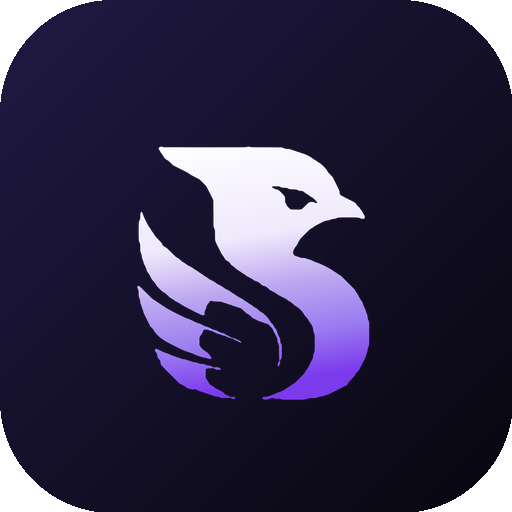
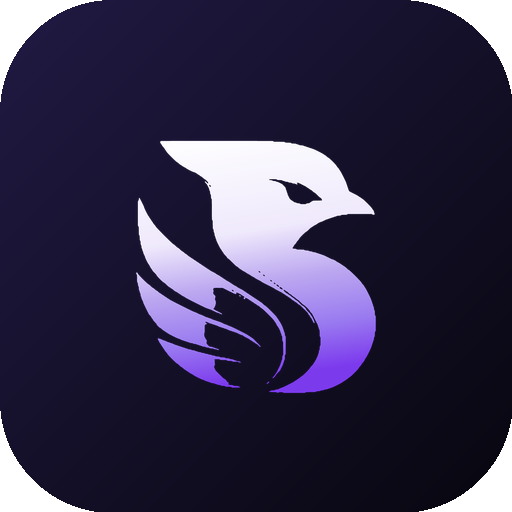
Brand refresh v2: real phoenix art — launcher, adaptive, store, youtube
Replace traced-from-placeholder with the real phoenix (new.png):
- mipmap ic_launcher + ic_launcher_round (real dark squircle) at all densities
- adaptive foreground vector re-traced from the real art
- store-assets app-icon-512 + feature-graphic regenerated (real)
- generate_youtube_banner.py now composites the phoenix (dropped the WiFi mark);
  youtube-banner regenerated

diff --git a/store-assets/generate_youtube_banner.py b/store-assets/generate_youtube_banner.py
@@ -14,11 +14,13 @@ SAFE_W, SAFE_H = 1546, 423
 SAFE_X = (W - SAFE_W) // 2
 SAFE_Y = (H - SAFE_H) // 2
 
+MARK = os.path.join(OUT, "brand-mark-1024.png")  # transparent phoenix
+
 # Brand palette (matches generate_assets.py)
 GRAD_TOP_LEFT     = (15, 14, 35)        # near-black indigo
 GRAD_MID          = (76, 51, 158)       # deep violet
 GRAD_BOT_RIGHT    = (139, 92, 246)      # #8B5CF6
-ACCENT            = (99, 102, 241)      # #6366F1
+ACCENT            = (124, 58, 237)      # #7C3AED
 WHITE             = (255, 255, 255)
 WHITE_A           = (255, 255, 255, 230)
 WHITE_FAINT       = (255, 255, 255, 40)
@@ -55,18 +57,10 @@ def add_glow(img, cx, cy, radius, color, intensity=180):
     return Image.alpha_composite(img, glow)
 
 
-def draw_wifi_mark(draw, cx, cy, scale=1.0):
-    """Concentric WiFi arcs + center dot — matches the app icon."""
-    arcs = [
-        (24 * scale, 5 * scale),
-        (16 * scale, 5 * scale),
-        (8 * scale, 5 * scale),
-    ]
-    for radius, thickness in arcs:
-        bbox = [cx - radius, cy - radius, cx + radius, cy + radius]
-        draw.arc(bbox, start=180, end=360, fill=WHITE, width=max(int(thickness), 2))
-    dot_r = 3 * scale
-    draw.ellipse([cx - dot_r, cy - dot_r, cx + dot_r, cy + dot_r], fill=WHITE)
+def paste_mark(img, cx, cy, size):
+    """Composite the phoenix brand mark, centred at (cx, cy)."""
+    m = Image.open(MARK).convert("RGBA").resize((size, size), Image.LANCZOS)
+    img.alpha_composite(m, (int(cx - size / 2), int(cy - size / 2)))
 
 
 def load_font(size, bold=False):
@@ -107,10 +101,10 @@ banner = draw_pixel_grid(banner)
 
 draw = ImageDraw.Draw(banner)
 
-# Center the WiFi mark inside the safe area, on the left
+# Center the phoenix mark inside the safe area, on the left
 mark_cx = SAFE_X + 150
 mark_cy = SAFE_Y + SAFE_H // 2 - 10
-draw_wifi_mark(draw, mark_cx, mark_cy, scale=4.2)
+paste_mark(banner, mark_cx, mark_cy, 300)
 
 # Wordmark + tagline to the right of the mark
 title_font  = load_font(150, bold=True)
